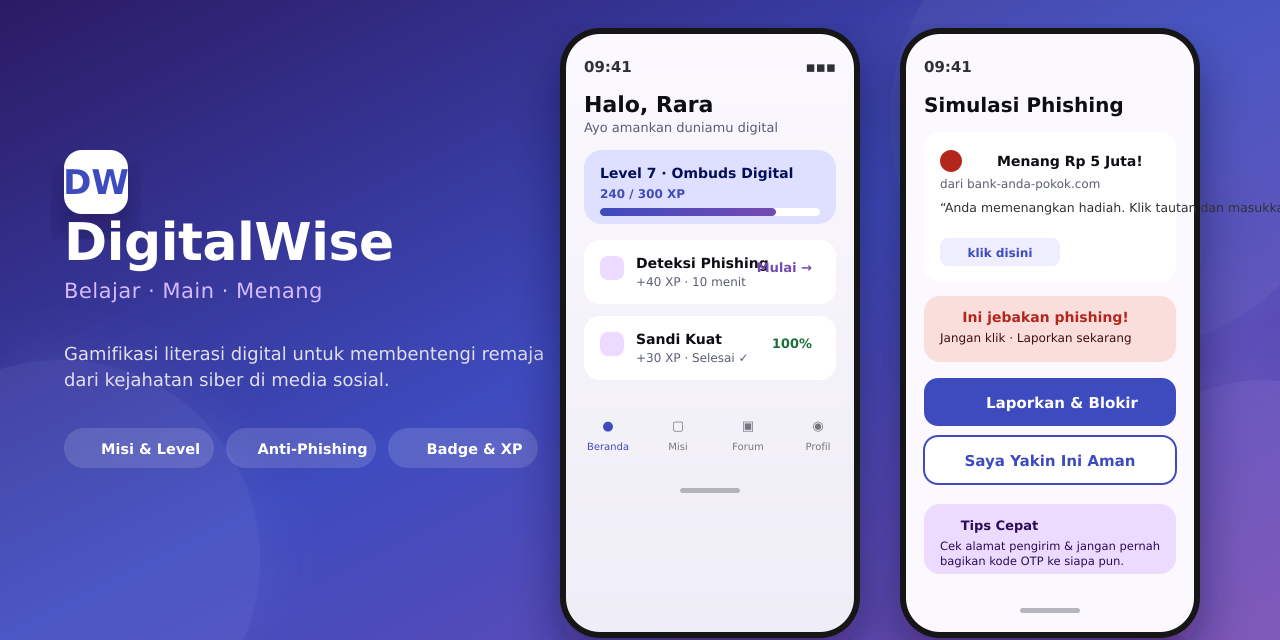
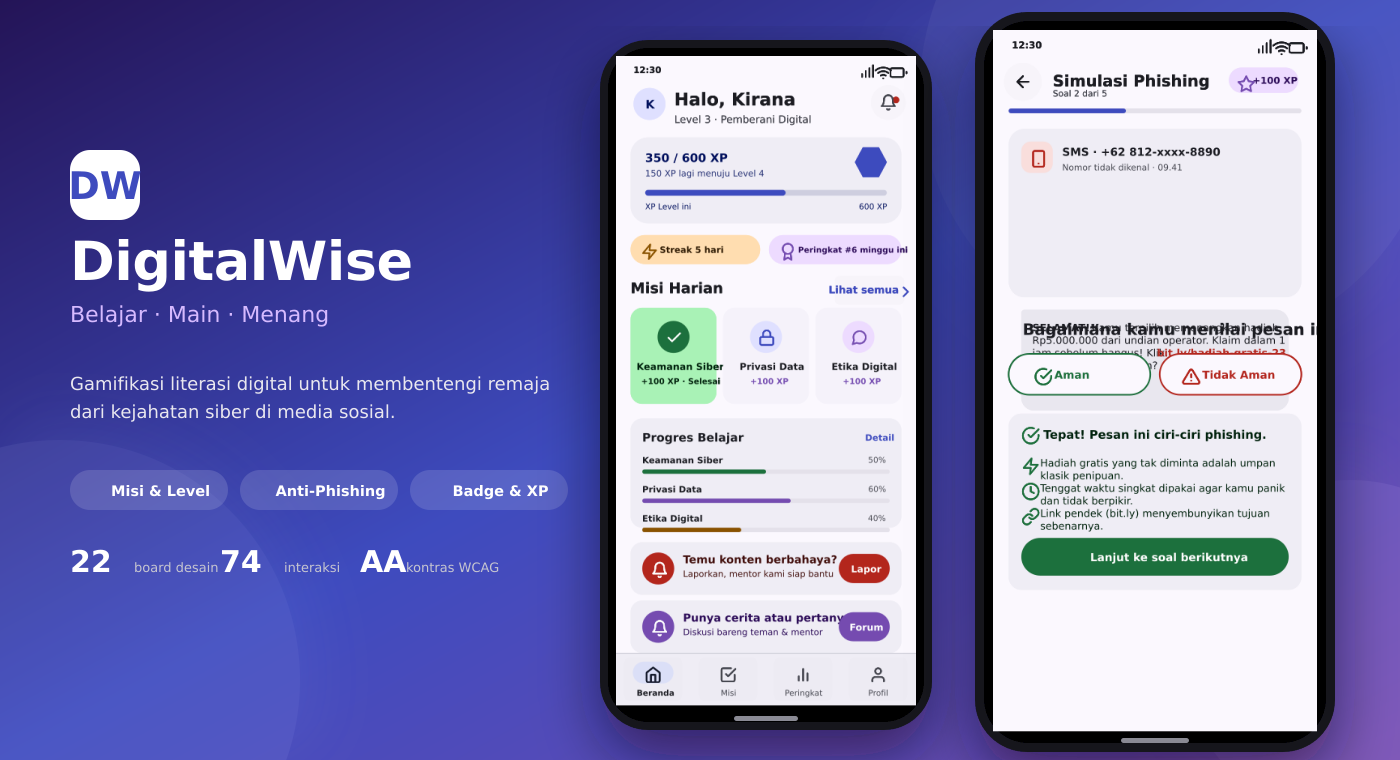
docs: README profesional + gallery screenshot asli dari Penpot
- Ekspor 7 board desain asli (light + dark) ke PNG via generateMarkup
- Hero banner disusun dari screenshot asli (bukan mockup)
- README dirapikan: whys, screenshot gallery, roadmap, arsitektur

Changed region(s): [[0.0312, 0.0, 1.0, 1.0], [0.0312, 0.1875, 0.3125, 0.4688]]

diff --git a/README.md b/README.md
@@ -1,36 +1,58 @@
 <p align="center">
-  <img src="docs/screenshots/hero.png" alt="DigitalWise hero banner" width="100%" />
+  <img src="docs/screenshots/hero.png" alt="DigitalWise — banner" width="100%" />
 </p>
 
 <h1 align="center">🛡 DigitalWise</h1>
 
 <p align="center">
-  <b>Gamifikasi literasi digital untuk membentengi remaja dari kejahatan siber.</b>
-  <br/>
-  Belajar · Main · Menang 🏆 — Poin, Badge, Level, XP, Peringkat, Lapor &amp; Bantuan.
+  <b>Gamifikasi literasi digital untuk membentengi remaja dari kejahatan siber di media sosial.</b><br/>
+  <code>Belajar · Main · Menang 🏆</code> — Poin, Badge, Level, XP, Peringkat, Lapor &amp; Bantuan.
 </p>
 
 <p align="center">
-  <img src="https://img.shields.io/badge/platform-Android-000000?style=flat&logo=android&logoColor=white"/>
-  <img src="https://img.shields.io/badge/web-React_17C53E?style=flat&logo=react&logoColor=white"/>
-  <img src="https://img.shields.io/badge/backend-Firebase-FFCA28?style=flat&logo=firebase&logoColor=white"/>
-  <img src="https://img.shields.io/badge/design-Material_3-6750A4?style=flat&logo=materialdesign&logoColor=white"/>
+  <img src="https://img.shields.io/badge/platform-Android-3DDC84?style=flat&logo=android&logoColor=white"/>
+  <img src="https://img.shields.io/badge/stack-React_Native%20%2F%20Expo-000?style=flat&logo=expo&logoColor=white"/>
+  <img src="https://img.shields.io/badge/web-React%20%2B%20Tailwind-61DAFB?style=flat&logo=react&logoColor=black"/>
+  <img src="https://img.shields.io/badge/backend-Firebase-FFCA28?style=flat&logo=firebase&logoColor=black"/>
+  <img src="https://img.shields.io/badge/design-Material_You%20%28M3%29-6750A4?style=flat&logo=materialdesign&logoColor=white"/>
   <img src="https://img.shields.io/badge/a11y-WCAG_AA-23c55e?style=flat"/>
+  <img src="https://img.shields.io/badge/design_tool-Penpot-000?style=flat&logo=penpot&logoColor=white"/>
 </p>
 
 ---
 
-## ✨ Apa itu DigitalWise?
+## ✨ Mengapa DigitalWise?
 
-**DigitalWise** adalah aplikasi edukasi yang mengajak remaja belajar keamanan siber dengan cara yang **menyenangkan dan penuh gamifikasi**. Bukan sekadar materi — setiap misi, simulasi, dan kuis memberi **XP, badge, dan level** untuk menjaga semangat belajar.
+Remaja menghabiskan waktu berjam-jam di media sosial — tapi jarang dibekali **keterampilan mengenali bahaya** di sana: phishing, penipuan, konten berbahaya, dan eksploitasi. **DigitalWise** mengubah materi keamanan siber yang membosankan menjadi **petualangan belajar yang seru**, dengan mekanika gamifikasi yang menjaga motivasi tetap hidup.
 
 **Fitur utama:**
-- 🎯 **Misi & Level** — belajar bertahap dengan XP bar yang naik
-- 🕵 **Simulasi Anti-Phishing** — deteksi jejaring penipuan di situasi nyata
-- 🔐 **Materi Keamanan Siber** — sandi kuat, privasi, jejak digital
-- 🏅 **Badge & Peringkat** — motivasi lewat kompetisi sehat
-- 🚩 **Lapor & Bantuan** — saluran aman melaporkan konten berbahaya
-- 🌗 **Light & Dark mode** dengan tema Material You
+
+- 🎯 **Misi & Level** — belajar bertahap dengan XP bar yang terus naik
+- 🕵 **Simulasi Anti-Phishing** — latihan mengenali penipuan dalam skenario realistis
+- 🔐 **Materi Keamanan Siber** — sandi kuat, privasi, jejak digital, & proteksi akun
+- 🏅 **Badge & Peringkat** — papan peringkat untuk kompetisi sehat antar teman
+- 🚩 **Lapor & Bantuan** — saluran aman melaporkan konten serta meminta pertolongan
+- 🌗 **Light & Dark Mode** — tema Material You adaptif dengan kontras WCAG AA
+
+---
+
+## 📱 Screenshots (Dari Desain Penpot Asli)
+
+> Semua layar di bawah adalah ekspor langsung dari file desain **Penpot** (bukan mockup).
+
+<div align="center">
+  <img src="docs/screenshots/beranda.png" width="150" alt="Beranda" title="Beranda"/>
+  <img src="docs/screenshots/misi.png" width="150" alt="Misi" title="Misi &amp; Materi"/>
+  <img src="docs/screenshots/phishing.png" width="150" alt="Simulasi Phishing" title="Simulasi Anti-Phishing"/>
+  <img src="docs/screenshots/peringkat.png" width="150" alt="Peringkat" title="Papan Peringkat"/>
+  <img src="docs/screenshots/profil.png" width="150" alt="Profil" title="Profil &amp; Badge"/>
+  <img src="docs/screenshots/materi.png" width="150" alt="Materi" title="Materi Keamanan Siber"/>
+</div>
+
+<p align="center"><em>Light mode</em> — tampilkan <b>dark mode</b> juga:</p>
+<div align="center">
+  <img src="docs/screenshots/beranda-dark.png" width="150" alt="Beranda Dark" title="Beranda — Dark Mode"/>
+</div>
 
 ---
 
@@ -38,48 +60,49 @@
 
 ```
 digitalwise/
-├── 🎨 design/            # Desain Penpot — 22 board, prototype ter-wiring
-├── mobile-app/           # 📱 Aplikasi Android (React Native / Expo)
-│   ├── app/              #    Screens & navigasi
-│   ├── components/       #    UI + gamification components
-│   └── stores/           #    State management
-├── admin-panel/          # 🖥 Dashboard admin (React + Tailwind)
-│   └── src/pages/        #    Kelola materi, misi, kuis, laporan
-├── backend/              # ⚙ Firebase Functions (Typescript)
-│   ├── functions/src/    #    Forum, quiz, session, notification
-│   └── seed/             #    Data awal materi/kuis
-├── docs/                 # 📚 Handoff kit, rencana, screenshot
-├── app.html              # 🖼 Prototype HTML interaktif (light+dark)
-└── tokens.css            # 🎨 Design tokens — single source of truth
+├── 🎨 design            # Desain Penpot — 22 board, prototype ter-wiring (74 interaksi)
+├── 📱 mobile-app/       # Aplikasi Android (React Native / Expo)
+│   ├── app/             #    Screens & navigasi (tabs, onboarding, quiz, forum…)
+│   ├── components/      #    UI + komponen gamification
+│   ├── stores/          #    State management
+│   └── hooks/ lib/      #    Logic & utilitas
+├── 🖥 admin-panel/      # Dashboard admin (React + Tailwind + React Query)
+│   └── src/pages/       #    Kelola materi, misi, kuis, laporan, pengaturan
+├── ⚙ backend/          # Firebase Functions (TypeScript)
+│   ├── functions/src/   #    forum, quiz, session, notification
+│   └── seed/            #    Data awal materi & kuis
+├── 📚 docs/             # Handoff kit, rencana, screenshot
+├── 🖼 app.html          # Prototype HTML interaktif (light + dark)
+└── 🎨 tokens.css        # Design tokens — single source of truth (M3)
 ```
 
 ---
 
 ## 🎨 Design System
 
-Dibangun di atas **Material Design 3 (Material You)** dengan aksesibilitas **WCAG 2.2 AA**:
+Dibangun di atas **Material Design 3 (Material You)** dengan aksesibilitas **WCAG 2.2 AA** (48 pasangan warna tervalidasi lewat `check-contrast.mjs`).
 
 | Role | Light | Dark | Fungsi |
 |------|-------|------|--------|
-| **Primary** | `#3E4BBE` (indigo) | `#BDC3FF` | Aksi utama, identitas keamanan |
-| **Tertiary** | `#744CB0` (violet) | `#D6BAFF` | Aksen gamifikasi: XP, badge, level |
-| **Success** | `#1D6F3C` | `#8ED99B` | Misi selesai, aman |
+| **Primary** | `#3E4BBE` · indigo | `#BDC3FF` | Aksi utama, identitas keamanan |
+| **Tertiary** | `#744CB0` · violet | `#D6BAFF` | Aksen gamifikasi: XP, badge, level |
+| **Success** | `#1D6F3C` | `#8ED99B` | Misi selesai, status aman |
 | **Error** | `#B3261E` | `#F2B8B5` | Phishing, konten berbahaya |
 
-> Semua pasangan warna tervalidasi kontras lewat `check-contrast.mjs` (48 pasangan AA).
+> Design tokens sumber kebenaran di `tokens.css`, konsisten antara prototype HTML, mobile app, dan admin panel.
 
 ---
 
 ## 🚀 Menjalankan Project
 
-### 📱 Mobile app
+### 📱 Mobile App (Expo)
 ```bash
 cd mobile-app
 npm install
 npx expo start
 ```
 
-### 🖥 Admin panel
+### 🖥 Admin Panel
 ```bash
 cd admin-panel
 npm install
@@ -95,42 +118,45 @@ npx tsc --watch
 npm run deploy     # deploy ke Firebase
 ```
 
-### 🧪 Verifikasi desain
+### 🧪 Verifikasi Desain
 ```bash
-node check-contrast.mjs   # cek 48 pasangan warna WCAG AA
+node check-contrast.mjs   # cek 48 pasangan warna (WCAG AA)
 node check-html.mjs       # cek keseimbangan tag HTML prototype
 ```
 
 ---
 
-## 📊 Status Project
+## 🗺 Roadmap
 
-| Komponen | Status |
-|----------|--------|
-| Desain Penpot (22 board, light+dark) | ✅ Selesai |
+| Fitur | Status |
+|-------|--------|
+| Desain Penpot (22 board, light + dark, prototype ter-wiring) | ✅ Selesai |
 | Prototype HTML interaktif | ✅ Selesai |
-| Design tokens + verifikasi kontras | ✅ Selesai |
-| Mobile app (Expo) | 🚧 Dalam pengembangan |
-| Admin panel | 🚧 Dalam pengembangan |
-| Firebase Functions | 🚧 Dalam pengembangan |
+| Design tokens + verifikasi kontras WCAG AA | ✅ Selesai |
+| Onboarding & izin pengguna | 🚧 Pengembangan |
+| Misi, level, XP & badge | 🚧 Pengembangan |
+| Simulasi anti-phishing | 🚧 Pengembangan |
+| Forum diskusi | 🚧 Pengembangan |
+| Admin panel (materi, laporan, setting) | 🚧 Pengembangan |
+| Backend & integrasi Firebase | 🚧 Pengembangan |
 
 ---
 
 ## 🛡 Keamanan
 
-- **RLS** pada data konten berbasis `auth.uid` / role (bukan `auth.role` yang bisa dipalsukan)
+- **RLS** pada akses konten berbasis `auth.uid` / role (bukan `auth.role` yang bisa dipalsukan)
 - Progress per-user dihitung dari data aktual, bukan jumlah katalog
 - Protokol **lapor & blokir** untuk konten berbahaya
-- Tidak ada secret yang di-commit ke repository (`.env` & service account di-ignore)
+- Tidak ada secret yang di-commit (`*.env` & service account di-ignore)
 
 ---
 
 ## 👥 Kontributor
 
-Built by **Mohammad Fahri Saleh** — desain, prototype, dan engineering.
+Built with 💜 by **Mohammad Fahri Saleh** — desain, prototype, dan engineering.
 
 ---
 
 <p align="center">
-  <sub>Dibuat dengan 💜 · Material Design 3 · WCAG AA · Education for a safer digital world</sub>
+  <sub>Material Design 3 · WCAG AA · Dibuat untuk generasi digital yang lebih aman</sub>
 </p>
